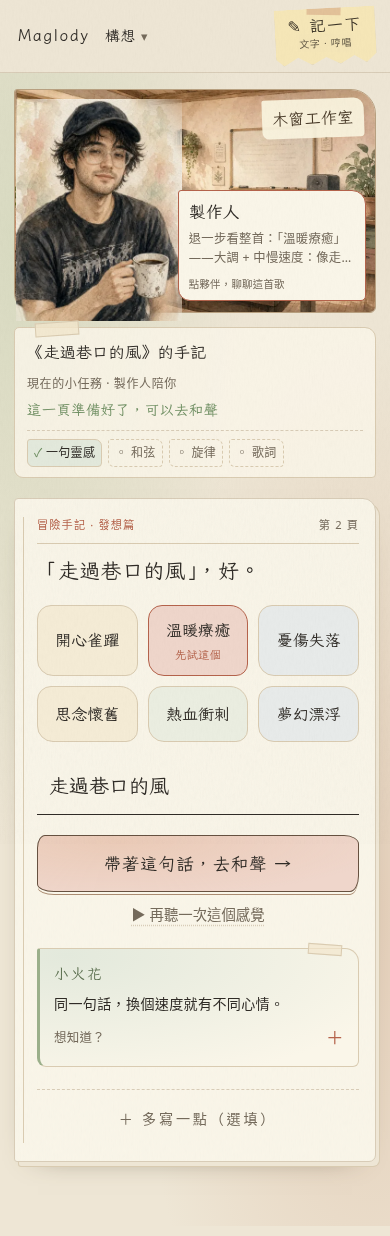
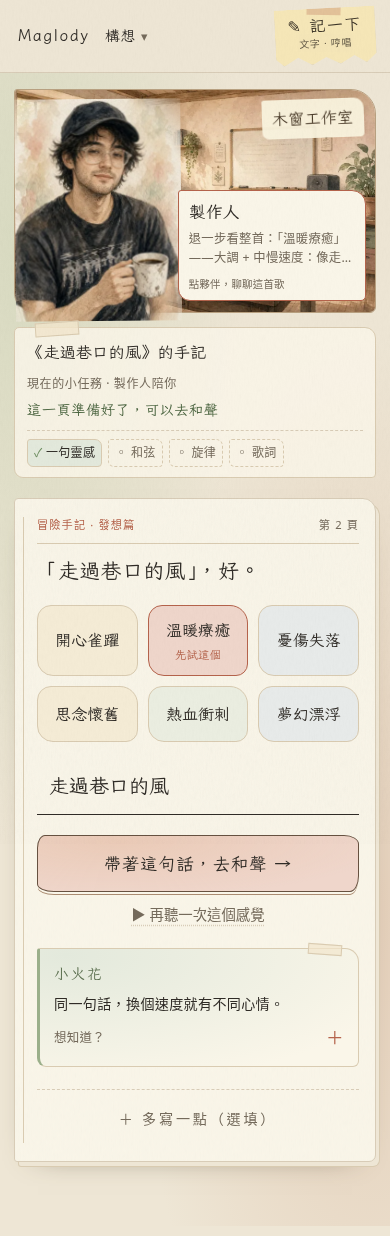
feat(UI-06): deepen map and mission ink for readable status text (UAT-66 UAT-67)

diff --git a/src/styles.css b/src/styles.css
@@ -1014,3 +1014,8 @@ body::before { opacity: .12; }
   .song-trail ul { margin-top: 8px; }
   .song-trail li { padding: 2px 6px; font-size: .75rem; }
 }
+
+/* UI-06 · keep watercolor soft while making small status text legible. */
+.map-stop.on .map-stop-mark, .map-stop.on .map-stop-copy small { color: var(--ink); }
+.desk-mission[data-ready="true"] strong { color: #49633e; }
+@media (prefers-color-scheme: dark) { .desk-mission[data-ready="true"] strong { color: #b1c79e; } }

diff --git a/docs/uat/UAT-RESULTS.md b/docs/uat/UAT-RESULTS.md
@@ -1,16 +1,16 @@
 # Maglody UAT 執行結果
 
-台北時間：2026-11-10 08:50；run：2026-11-10T00-50-45-371Z。
+台北時間：2026-11-10 08:54；run：2026-11-10T00-53-59-992Z。
 
 6 次執行：PASS 6／FAIL 0／BLOCKED 0。ready_for_user_test=false。
 
-Chrome；desktop 1280x800/mobile 390x844；run=2026-11-10T00-50-45-371Z；部分重跑，不能作為整體通過依據；Web Audio 實際播放、麥克風假裝置、LLM 本機教練，實機/API 未驗證。各次歷史見 [evidence](evidence/)，功能修復與視覺交接見 [failures.md](failures.md)。每次執行有獨立 results.json，不覆蓋舊證據。
+Chrome；desktop 1280x800/mobile 390x844；run=2026-11-10T00-53-59-992Z；部分重跑，不能作為整體通過依據；Web Audio 實際播放、麥克風假裝置、LLM 本機教練，實機/API 未驗證。各次歷史見 [evidence](evidence/)，功能修復與視覺交接見 [failures.md](failures.md)。每次執行有獨立 results.json，不覆蓋舊證據。
 
 | 案例 | Viewport | 結果 | 失敗原因 | 截圖 |
 |---|---|---|---|---|
-| UAT-65 | desktop | pass |  | [截圖](evidence/2026-11-10T00-50-45-371Z/desktop/UAT-65.png) |
-| UAT-65 | mobile | pass |  | [截圖](evidence/2026-11-10T00-50-45-371Z/mobile/UAT-65.png) |
-| UAT-66 | desktop | pass |  | [截圖](evidence/2026-11-10T00-50-45-371Z/desktop/UAT-66.png) |
-| UAT-66 | mobile | pass |  | [截圖](evidence/2026-11-10T00-50-45-371Z/mobile/UAT-66.png) |
-| UAT-67 | desktop | pass |  | [截圖](evidence/2026-11-10T00-50-45-371Z/desktop/UAT-67.png) |
-| UAT-67 | mobile | pass |  | [截圖](evidence/2026-11-10T00-50-45-371Z/mobile/UAT-67.png) |
+| UAT-48 | desktop | pass |  | [截圖](evidence/2026-11-10T00-53-59-992Z/desktop/UAT-48.png) |
+| UAT-48 | mobile | pass |  | [截圖](evidence/2026-11-10T00-53-59-992Z/mobile/UAT-48.png) |
+| UAT-66 | desktop | pass |  | [截圖](evidence/2026-11-10T00-53-59-992Z/desktop/UAT-66.png) |
+| UAT-66 | mobile | pass |  | [截圖](evidence/2026-11-10T00-53-59-992Z/mobile/UAT-66.png) |
+| UAT-67 | desktop | pass |  | [截圖](evidence/2026-11-10T00-53-59-992Z/desktop/UAT-67.png) |
+| UAT-67 | mobile | pass |  | [截圖](evidence/2026-11-10T00-53-59-992Z/mobile/UAT-67.png) |

diff --git a/docs/uat/UI-CHANGES.md b/docs/uat/UI-CHANGES.md
@@ -49,3 +49,15 @@
 - 下方四張小材料紙片記住已留下的靈感、和弦、旋律、詞。便箋沒有新增按鈕，唯一的大按鈕與隨手記入口照常可用，小火花仍先收起。
 - 首頁：[桌面](evidence/A-UI-05-desktop.png)、[手機](evidence/A-UI-05-mobile.png)；完成構想後：[桌面](evidence/A-UI-05-ready-desktop.png)、[手機](evidence/A-UI-05-ready-mobile.png)。
 - 驗證：UAT-67 兩尺寸先失敗再通過；與 UAT-24/33/56/58/65 共 12/12。調整手機小字、截圖位置後，UAT-65/66/67 再驗 6/6。已人工看兩尺寸首頁與構想便箋，文字與人物清楚；完整放行以本輪完整矩陣為準。
+
+## UI-06：淡彩保留，定位和完成提示更好讀（R1、UAT-66/67）
+
+獨立審查發現「你在這裡」、當前夥伴小字和任務完成提示的文字偏淡。已用實際瀏覽器量測重現 3.12／3.83／3.36:1，再加深小字：地圖當前文字淺色 10.14:1、深色 9.33:1；任務完成文字淺色 6.19:1、深色 8.14:1（相對紙底），皆高於 4.5:1。水彩底與墨線保留，操作不變。
+
+- 地圖：[桌面](evidence/A-UI-06-light-map-desktop.png)、[手機](evidence/A-UI-06-light-map-mobile.png)。
+- 完成任務：[桌面](evidence/A-UI-06-light-ready-desktop.png)、[手機](evidence/A-UI-06-light-ready-mobile.png)。
+- 夜間紙面：[桌面](evidence/A-UI-06-dark-ready-desktop.png)、[手機](evidence/A-UI-06-dark-ready-mobile.png)。
+
+已看手機地圖、桌面夜間紙面截圖；獨立 reviewer 已確認唯一 Important 項解決，沒有其他重大發現。實體裝置與真 LLM 尚待使用者測試。
+
+UI-06 相關 UAT-48/66/67 兩尺寸 6/6 通過，build 通過。部分重跑仍 ready=false，接續本輪完整 134 次驗收。
